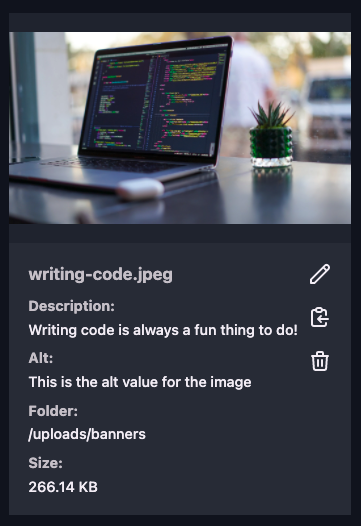
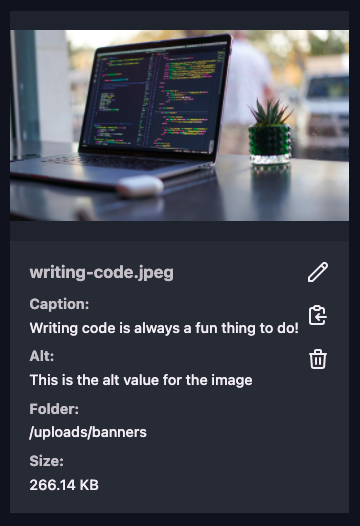
Update docs

diff --git a/content/docs/markdown.md b/content/docs/markdown.md
@@ -29,7 +29,7 @@ The example used in the GIF above looks as follows:
 
 ```json
 "frontMatter.dashboard.mediaSnippet": [
-  "{{< caption \"{mediaUrl}\" \"{description}\" >}}"
+  "{{< imgShortCode \"{mediaUrl}\" \"{caption}\" >}}"
 ]
 ```
 
@@ -38,7 +38,7 @@ The example used in the GIF above looks as follows:
 For your snippet, you can use the following placeholders:
 
 - `{mediaUrl}`: Use this to insert the relative path to the media file.
-- `{description}`: Use this placeholder where you want to insert the description.
+- `{caption}`: Use this placeholder where you want to insert the caption.
 - `{alt}`: Use this placeholder where you want to insert the alt attribute value.
 
 > **Info**: All three placeholders are optional, so you can leave out the placeholders you do not want to use from your snippet.

diff --git a/content/changelog/v4.1.0.md b/content/changelog/v4.1.0.md
@@ -45,7 +45,7 @@ Choice fields now allow you to set if multi-selection is enabled. Also more supp
 
 ### ✨ New features
 
-- [#113](https://github.com/estruyf/vscode-front-matter/issues/113): Integrating a local DB for media metadata (description, alt)
+- [#113](https://github.com/estruyf/vscode-front-matter/issues/113): Integrating a local DB for media metadata (caption, alt)
 
 ### 🎨 Enhancements
 
